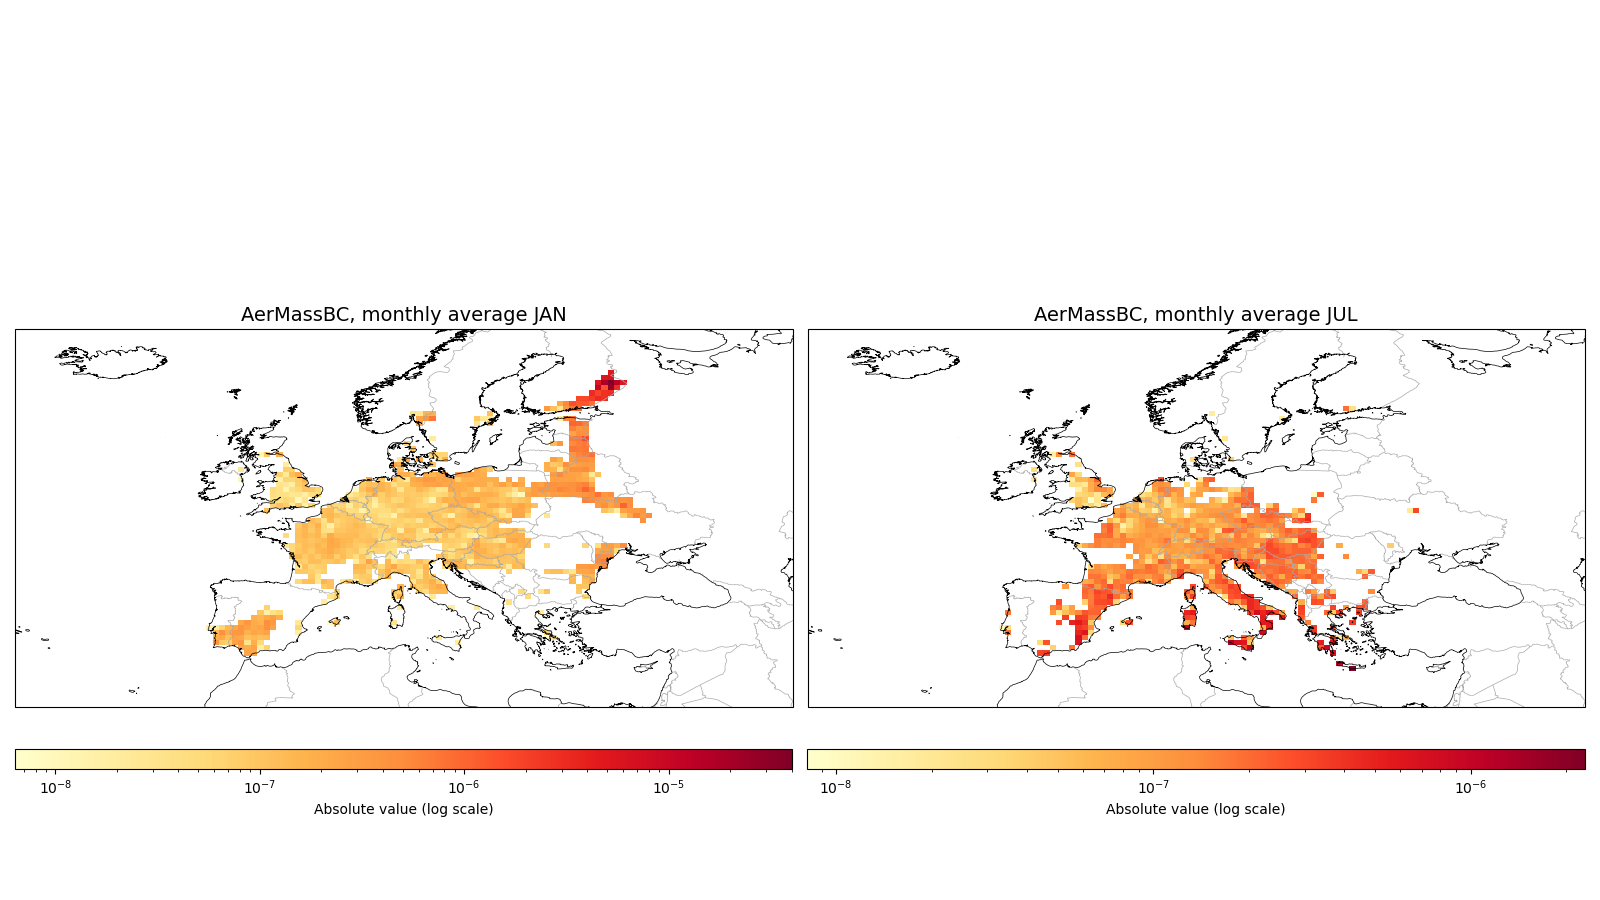
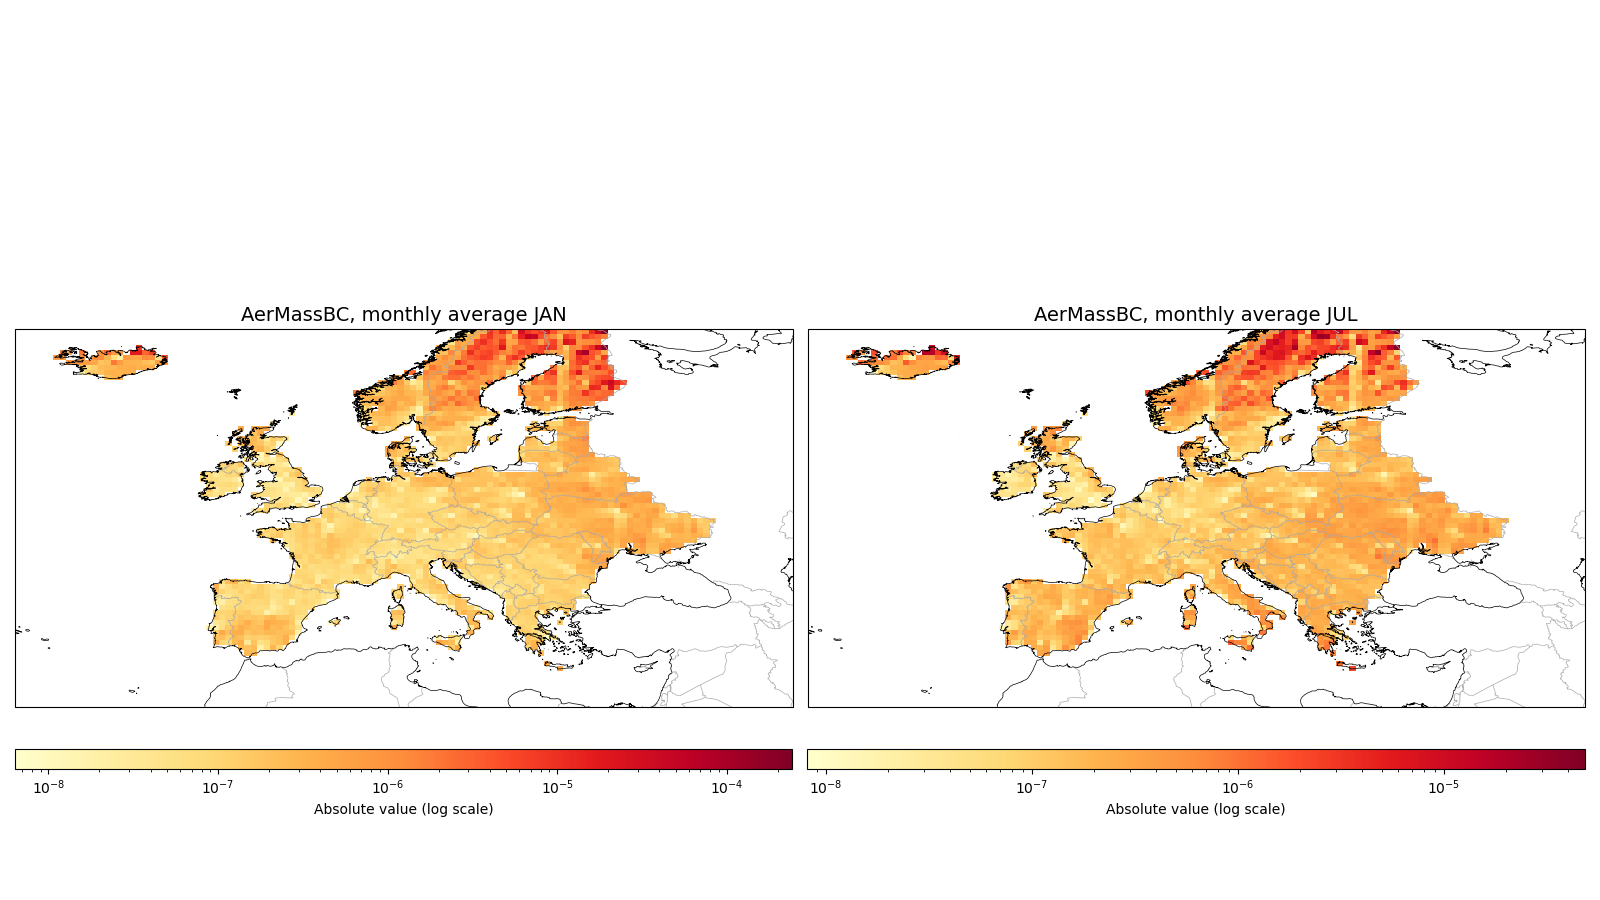
Include top20 log scale

diff --git a/division_processing/procData.py b/division_processing/procData.py
@@ -91,7 +91,7 @@ for type_, vars in types.items():
             sum_emittants = adder(emissions, emittants)
 
             # Slice pollutants, top 20% chosen
-            pollutant_top20 = np.nanpercentile(pollutant.values, 80)
+            pollutant_top20 = np.nanpercentile(pollutant.values, 100*0)
             select_pollutant = pollutant.where(pollutant.values >= pollutant_top20, np.nan)
 
             measure = select_pollutant / sum_emittants ## select_pollutant
@@ -99,13 +99,11 @@ for type_, vars in types.items():
             
             measures.append(measure)
             
-            
         fig, ax = plt.subplots(1, 2, figsize=[16, 6], subplot_kw={"projection": ccrs.PlateCarree()})
         plt.tight_layout()
         for i, month in enumerate(months):
             
             ax[i].add_feature(cfeature.BORDERS.with_scale('10m'), linewidth=0.5, edgecolor='darkgrey')
-            ax[i].add_feature(cfeature)
             ax[i].coastlines(resolution='10m', linewidth=0.5, color='black')
             
             masked_measure = mask_ocean(measures[i])

diff --git a/mountains_test.py b/mountains_test.py
@@ -14,8 +14,8 @@ ax.add_image(tiles, 8)  # Zoom level 8 for a moderate view
 
 # Add a shapefile (or manually created shapely geometries)
 # For this example, we'll create a polygon using Shapely
-polygon = Polygon([(-80, 30), (-80, 35), (-75, 35), (-75, 30)])
-ax.set_extent([-80.5, -74.5, 29.5, 35.5], crs=ccrs.PlateCarree())  # Adjust extent for the region
+polygon = Polygon([(0, 30), (0, 50), (60, 50), (60, 90)])
+ax.set_extent([0, 40, 29.5, 90], crs=ccrs.PlateCarree())  # Adjust extent for the region
 
 # Use Shapely geometry to plot the region on the map
 x, y = polygon.exterior.xy
